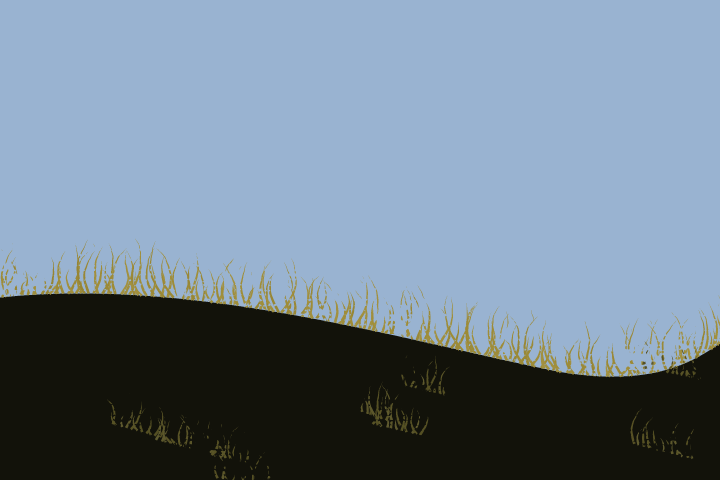
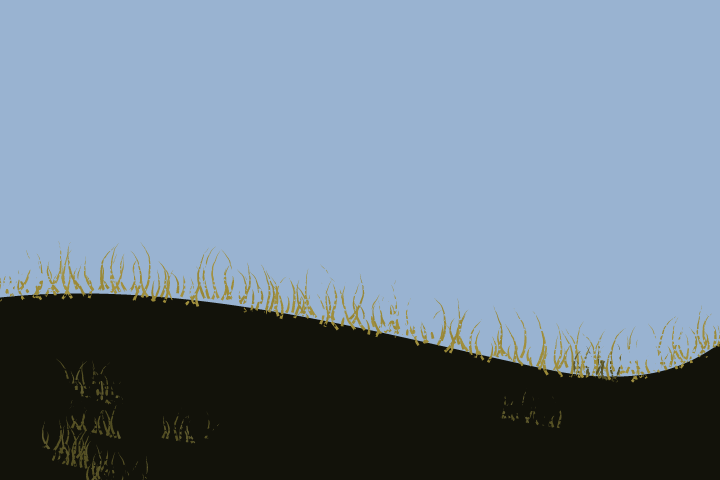
paintkit: pkpull /Scatter offsets each stroke start across the spine (#346) (#377)
* paintkit: pkpull /Scatter offsets each start across the spine (#346)

* cookbook: grass recipe uses pkpull /Scatter; drop the #346 pending row; notes (#346)

* tests: pkpull /Scatter stream test says what it checks (#346)

* docs: before/after render for pkpull /Scatter (#346)

diff --git a/tests/paintkit.rs b/tests/paintkit.rs
@@ -8849,6 +8849,91 @@ fn assert_bowed_strokes_stay_within_their_length(code: &str, length: f64) {
 }
 
 #[test]
+fn pull_scatter_only_translates_each_start_across_the_spine() {
+    // /Scatter 0 and /Scatter 6 draw the same stream (a set key draws one
+    // more value per stroke, whatever its size), so the strokes are the
+    // same strokes and only their starts move: across the spine by up to 6.
+    let run = |scatter: f64| {
+        strokes(&motion_segs(&format!(
+            "5 srand {SPINE} << /Spacing 10 /Wander 0.6 /Lean 10 /Scatter {scatter} >> pkpull"
+        )))
+    };
+    let (flat, loose) = (run(0.0), run(6.0));
+    assert_eq!(flat.len(), loose.len());
+    let mut off = 0;
+    for (a, b) in flat.iter().zip(&loose) {
+        assert!((a.0.1 - 100.0).abs() < 1e-6, "scatter 0 leaves the spine");
+        assert!(
+            (a.0.0 - b.0.0).abs() < 1e-6,
+            "scatter slid a start along the spine"
+        );
+        assert!(
+            (b.0.1 - 100.0).abs() <= 6.0 + 1e-6,
+            "start {} is past /Scatter",
+            b.0.1
+        );
+        // the pull itself (its vector) is the same stroke
+        assert!(((a.1.0 - a.0.0) - (b.1.0 - b.0.0)).abs() < 1e-6);
+        assert!(((a.1.1 - a.0.1) - (b.1.1 - b.0.1)).abs() < 1e-6);
+        if (b.0.1 - 100.0).abs() > 0.5 {
+            off += 1;
+        }
+    }
+    assert!(
+        off > flat.len() / 2,
+        "only {off} of {} starts left the spine",
+        flat.len()
+    );
+}
+
+#[test]
+fn pull_scatter_is_across_the_spine_not_along_the_pull() {
+    // A vertical spine pulled sideways: the offset is horizontal (the spine's
+    // normal), so the starts stay on their even rows.
+    let s = strokes(&motion_segs(
+        "5 srand newpath 50 0 moveto 50 100 lineto \
+         << /Spacing 10 /Wander 0 /Direction 0 /Lean 0 /Scatter 6 >> pkpull",
+    ));
+    assert_eq!(s.len(), 11);
+    let mut off = 0;
+    for (i, st) in s.iter().enumerate() {
+        assert!(
+            (st.0.1 - 10.0 * i as f64).abs() < 1e-3,
+            "slid along the spine"
+        );
+        assert!((st.0.0 - 50.0).abs() <= 6.0 + 1e-6);
+        if (st.0.0 - 50.0).abs() > 0.5 {
+            off += 1;
+        }
+    }
+    assert!(off > 5, "only {off} starts left the spine");
+}
+
+#[test]
+fn pull_scatter_follows_the_normal_of_a_curved_spine() {
+    // Quarter circle of radius 100: starts stay within /Scatter of the arc.
+    let s = strokes(&motion_segs(
+        "5 srand newpath 100 0 moveto 0 0 100 0 90 arc \
+         << /Spacing 10 /Wander 0 /Scatter 5 >> pkpull",
+    ));
+    assert!(s.len() > 10);
+    let radii: Vec<f64> = s.iter().map(|st| st.0.0.hypot(st.0.1)).collect();
+    assert!(radii.iter().all(|r| (r - 100.0).abs() <= 5.3), "{radii:?}");
+    assert!(radii.iter().any(|r| (r - 100.0).abs() > 1.0), "{radii:?}");
+}
+
+#[test]
+fn pull_scatter_set_even_to_zero_draws_one_more_value_per_stroke() {
+    // Naming /Scatter costs one draw per stroke; leaving it out costs none
+    // (the render-identity check covers the unset stream against main).
+    let plain = |opts: &str| strokes(&motion_segs(&format!("5 srand {SPINE} {opts} pkpull")));
+    let set = plain("<< /Spacing 10 /Scatter 0 >>");
+    let unset = plain("<< /Spacing 10 >>");
+    assert_ne!(set, unset, "a set /Scatter draws one more value per stroke");
+    assert_eq!(set, plain("<< /Spacing 10 /Scatter 0 >>"), "deterministic");
+}
+
+#[test]
 fn bowed_pulls_do_not_overshoot_their_tip() {
     for dir in [0, 90, -90, 37] {
         assert_bowed_strokes_stay_within_their_length(
@@ -9084,6 +9169,7 @@ fn motions_advertise_exactly_their_tested_parameters() {
                 "Lean",
                 "Length",
                 "LengthJitter",
+                "Scatter",
                 "Spacing",
                 "Wander",
             ][..],

diff --git a/docs/guides/landscape-cookbook.md b/docs/guides/landscape-cookbook.md
@@ -706,12 +706,12 @@ newpath 0 74 moveto 60 86 130 68 190 54 curveto 230 42 260 28 300 24 curveto
 **Order.** The grass is the last mark of the painting. Along the rim first, then a few tufts across the bank, dimmer than the rim's.
 
 **Settings.**
-- `pkpull` pulls strokes from the current path along a direction: `/Direction 90 /Length 18 /LengthJitter 0.6 /Spacing 2.2 /Lean 16 /Bow 0.2`. `/Bow` curves them like blades and `/Lean` tilts them. It builds a path and paints nothing, so the next call decides the brush: here `pkliner`, `/Width 1.4 /Taper 0.95 /Waver 0.6`.
+- `pkpull` pulls strokes from the current path along a direction: `/Direction 90 /Length 18 /LengthJitter 0.6 /Spacing 2.2 /Lean 16 /Bow 0.2 /Scatter 3`. `/Bow` curves them like blades, `/Lean` tilts them, and `/Scatter` (points) starts each one up to that far to either side of the guide, across it, so the roots do not sit on one ruled line. It builds a path and paints nothing, so the next call decides the brush: here `pkliner`, `/Width 1.4 /Taper 0.95 /Waver 0.6`.
 - **One canvas.** `<< /Seed 7 /Weave 2.5 /Relief 0.6 >> pkcanvas` once, *first*, in the space the piece is painted in (before any `translate` or `scale`). `/Touch` (0 to 1) on `pkliner`, `pkdry`, `pkfan`, `pkbroad` or `pktrowel` lands a mark only on the knuckles that pressure reaches: lower is lighter. Every touched stroke catches on the same weave, so a dry brush and a knife crossing share it. A `/Touch` with no canvas is an error.
 - The rim's grass is lighter in tone and heavier in touch (0.8); the tufts across the bank are dimmer (0.7).
 
 **Failures.**
-- *Grass like a picket fence hung from a rail.* `pkpull` starts every stroke exactly on the spine, with no across-spine scatter. Raise `/Wander` and `/LengthJitter`, and pull from a few short guide strokes across the bank as well as the rim; see [#346](https://github.com/jeromebanks/postscript_interpreter/issues/346).
+- *Grass, or a waterfall, like a picket fence hung from a rail.* Unset, `pkpull` starts every stroke exactly on the spine, and `/Wander` only slides a start *along* it. Set `/Scatter` to a few points (the rim here uses 3; a fall pulled down off a lip reads better at 4 to 6) so the starts spread across the line. Raise `/LengthJitter` too, so the tips do not line up either.
 - *Grass that is one flat colour.* A dark stem with a lit tip would be `/TipColor` ([#229](https://github.com/jeromebanks/postscript_interpreter/issues/229)); for now layer a darker pass under a lighter one.
 - *`/Touch` that does nothing visible.* `/Touch 1` is full contact, the same as unset; take it down to 0.5 to 0.8.
 - *The canvas pattern moved.* `pkcanvas` must be called before any `translate`, `scale` or `rotate` the piece applies, and supersampling with `2 2 scale` goes before it.
@@ -733,7 +733,8 @@ newpath -10 -10 moveto -10 90 lineto 90 104 200 70 280 54 curveto
 % 1. Grass along the rim: pkpull pulls strokes up from the guide path,
 %    leaning and bowing like blades, and a liner paints each one.
 newpath -10 90 moveto 90 104 200 70 280 54 curveto 330 46 350 60 370 76 curveto
-<< /Length 18 /LengthJitter 0.6 /Spacing 2.2 /Direction 90 /Lean 16 /Bow 0.2 >> pkpull
+<< /Length 18 /LengthJitter 0.6 /Spacing 2.2 /Direction 90 /Lean 16 /Bow 0.2
+   /Scatter 3 >> pkpull
 [ 0.62 0.55 0.22 ] aload pop setrgbcolor
 << /Width 1.4 /Taper 0.95 /Waver 0.6 /Touch 0.8 >> pkliner
 
@@ -757,7 +758,6 @@ A recipe is a workaround where one of these would be one call. When one lands, u
 | [#229](https://github.com/jeromebanks/postscript_interpreter/issues/229) | `/TipColor` and `/TipReach`: a lit tip on a dark stem | 6 Evergreens, 11 Grass |
 | [#230](https://github.com/jeromebanks/postscript_interpreter/issues/230) | `/Colors` on `pkdry` and `pkoil`'s ridges | 4 Mist, 10 Bank, foam on water |
 | [#345](https://github.com/jeromebanks/postscript_interpreter/issues/345) | light-aware massing for clouds and bushes | 2 Clouds, 7 Bushes |
-| [#346](https://github.com/jeromebanks/postscript_interpreter/issues/346) | `pkpull` across-spine scatter | 11 Grass, a waterfall |
 | [#347](https://github.com/jeromebanks/postscript_interpreter/issues/347) | a brushed edge for filled masses | 5 Forest, 10 Bank |
 | [#359](https://github.com/jeromebanks/postscript_interpreter/issues/359) | `pkwet` backdrop per band, not per pass | 2 Clouds, 4 Mist |
 

diff --git a/notes/346-pkpull-scatter.md b/notes/346-pkpull-scatter.md
@@ -1,0 +1,42 @@
+## pkpull takes /Scatter, an across-spine offset for each start (issue #346, 2026-10-14)
+
+**Gap.** `pkpull` started every stroke exactly on the spine; `/Wander` slides
+a start only *along* it. A fall pulled down off a lip, or grass pushed up from
+a ground line, therefore began on one ruled line and read as a picket fence
+hung from a rail (found while painting `gallery/evening_stream.ps`, #187).
+
+**Change.** `<< /Scatter pts >> pkpull` offsets each stroke's start by a
+random amount in [-pts, +pts] along the *normal of the spine* at the sample
+the start slid to (the stop's tangent angle, rotated 90 degrees). It is the
+same key `pktap` has (#141: one key, one meaning: a random offset of each
+mark from the spine, in points, >= 0). The offset is applied before the Bow
+control points are built, so a bowed stroke moves with its start.
+
+**Decisions.**
+- *Across, not a box.* `pktap`'s offset is a box in user-space x and y.
+  `pkpull` already has `/Wander` for along-the-spine, so `/Scatter` is the
+  other axis only: on a horizontal lip it is vertical, on a curve it follows
+  the curve's normal (so it is not the same as "along the pull" once the
+  spine is not perpendicular to `/Direction`).
+- *Unset draws nothing.* There is no default. Unset, the code path is the old
+  one and draws the same four values per slot, so every existing render is
+  byte-identical, random stream included (`scripts/identity_check.sh --loader
+  lib/paintkit.ps`). Set to anything, even 0, it draws one more value per
+  slot (the fifth, after the existing four), so `/Scatter 2` and `/Scatter 6`
+  place the same strokes and only the offset size changes; `/Scatter 0` is
+  not the same stream as unset. Gating on the key being present, not on its
+  value, keeps "a fixed number of draws per slot" true for a given option set.
+- *Validation.* A procedure or a negative value is refused by the usual named
+  guards (`pkpull-scatter-must-not-be-a-procedure`,
+  `pkpull-scatter-must-be-non-negative`), with selftests.
+
+**Cookbook.** Recipe 11 (Grass) uses `/Scatter 3` on the rim, its picket-fence
+failure entry now names `/Scatter`, and the #346 row is gone from "Tools not
+yet landed". Only `grass.png` changed. The tufts layer stays: it is a separate
+dimmer pass, not a workaround.
+
+**For PR #348 (Evening Stream).** The fall there can now add `/Scatter 4`..`6`
+to its `pkpull` options (`gallery/evening_stream.ps`, `evfall`); that changes
+its render, so it is left to that PR.
+
+**Deferred.** Nothing.

diff --git a/README.md b/README.md
@@ -900,7 +900,7 @@ ordinary path, so they feed any preset.
 | `pkscumblein` | region | many small separate circles | `pkoil` (clouds) |
 | `pkscumble` | the current path | a chain of overlapping loops | `pkdry` (a scrubbed edge) |
 | `pktap` | the current path | short stabs along it | `pkfan`, or `/Length 0` for `pkdab` clumps |
-| `pkpull` | the current path | strokes pulled from it along a direction | `pkbroad` down (reflection), `pkliner` up (grass) |
+| `pkpull` | the current path | strokes pulled from it along a direction (`/Scatter` starts them off the line, so a fall or grass is not a picket fence) | `pkbroad` down (reflection), `pkliner` up (grass) |
 | `pkzigzag` | the current path | a zig-zag about it | `pkliner` (water) |
 
 ```postscript

diff --git a/.claude/skills/psart/SKILL.md b/.claude/skills/psart/SKILL.md
@@ -276,7 +276,8 @@ Which tool to pick:
   (clouds, bushes); `pktap` → `pkfan`, or `/Length 0` → `pkdab` (a clump
   per tap); `pkpull` → `pkbroad` with `/Direction -90` (reflection pulled
   down from a horizon) or `pkliner` with `/Direction 90` (grass pushed
-  up, `/Bow` for blades); `pkzigzag` → `pkliner` or `pkbroad` (water).
+  up, `/Bow` for blades, `/Scatter` so the roots do not sit on one ruled
+  line); `pkzigzag` → `pkliner` or `pkbroad` (water).
   Two rules: **every motion replaces the current path** (so a guide, or
   the outline `scpath` leaves behind, is never painted — one motion, one
   paint, then build the next); and the region motions take an artkit
